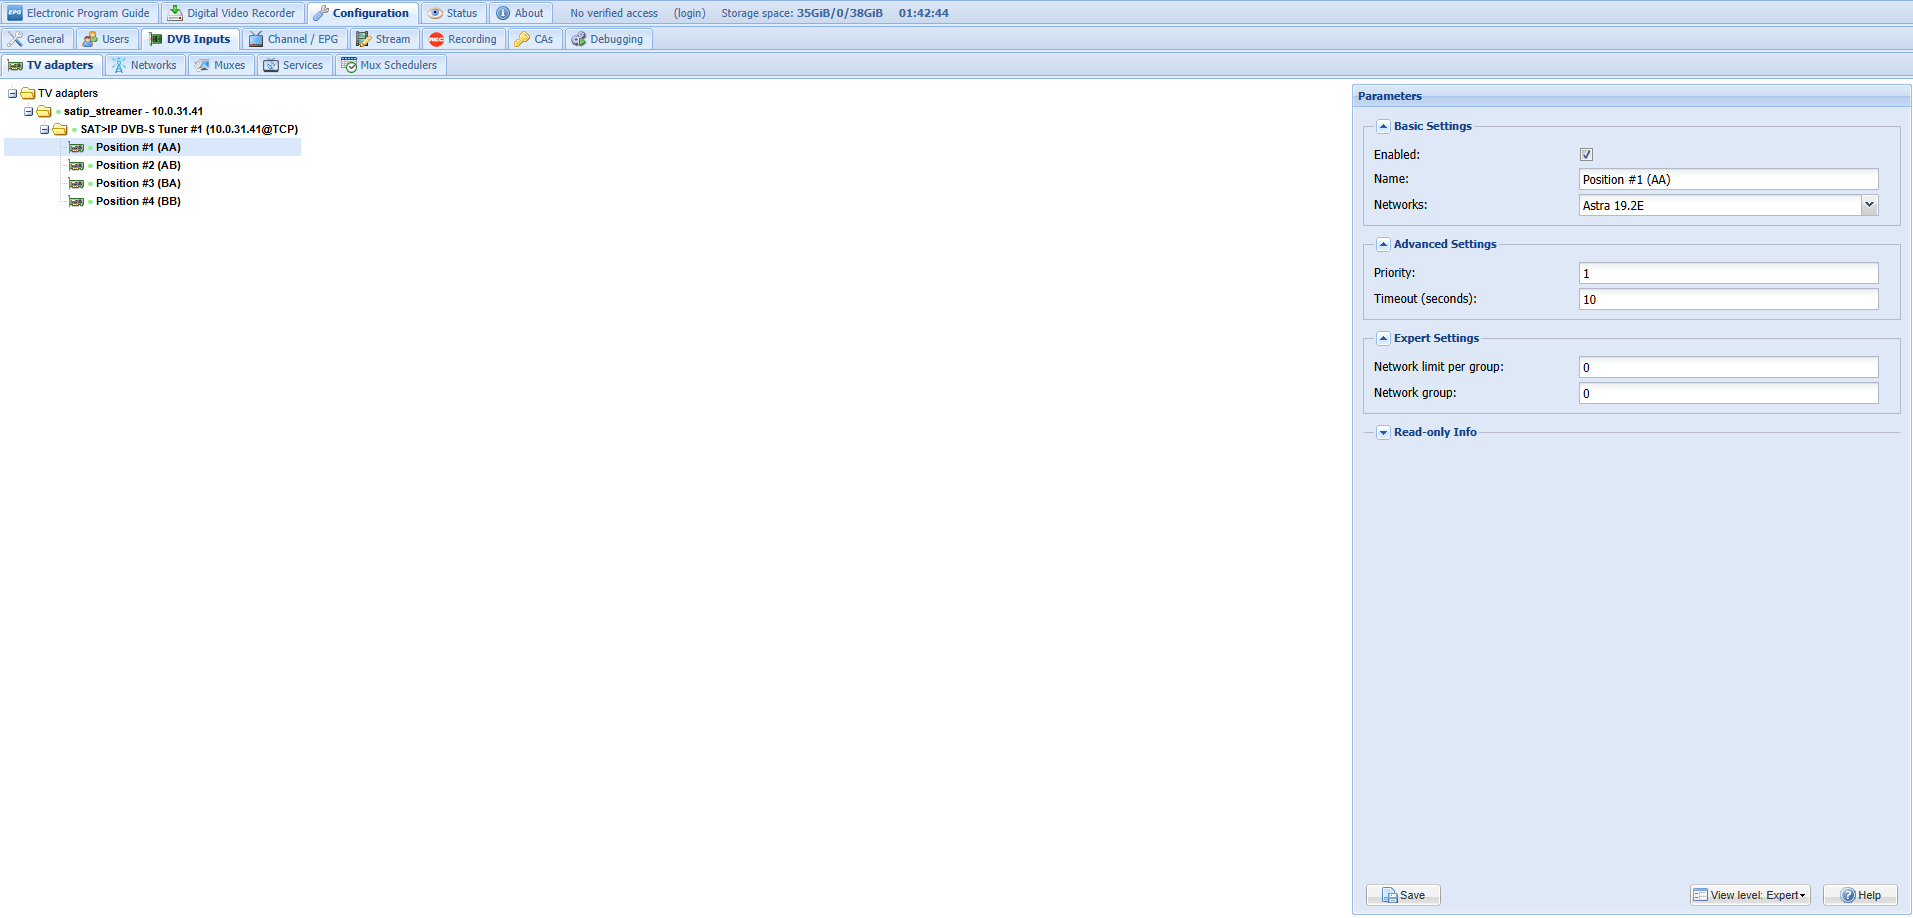
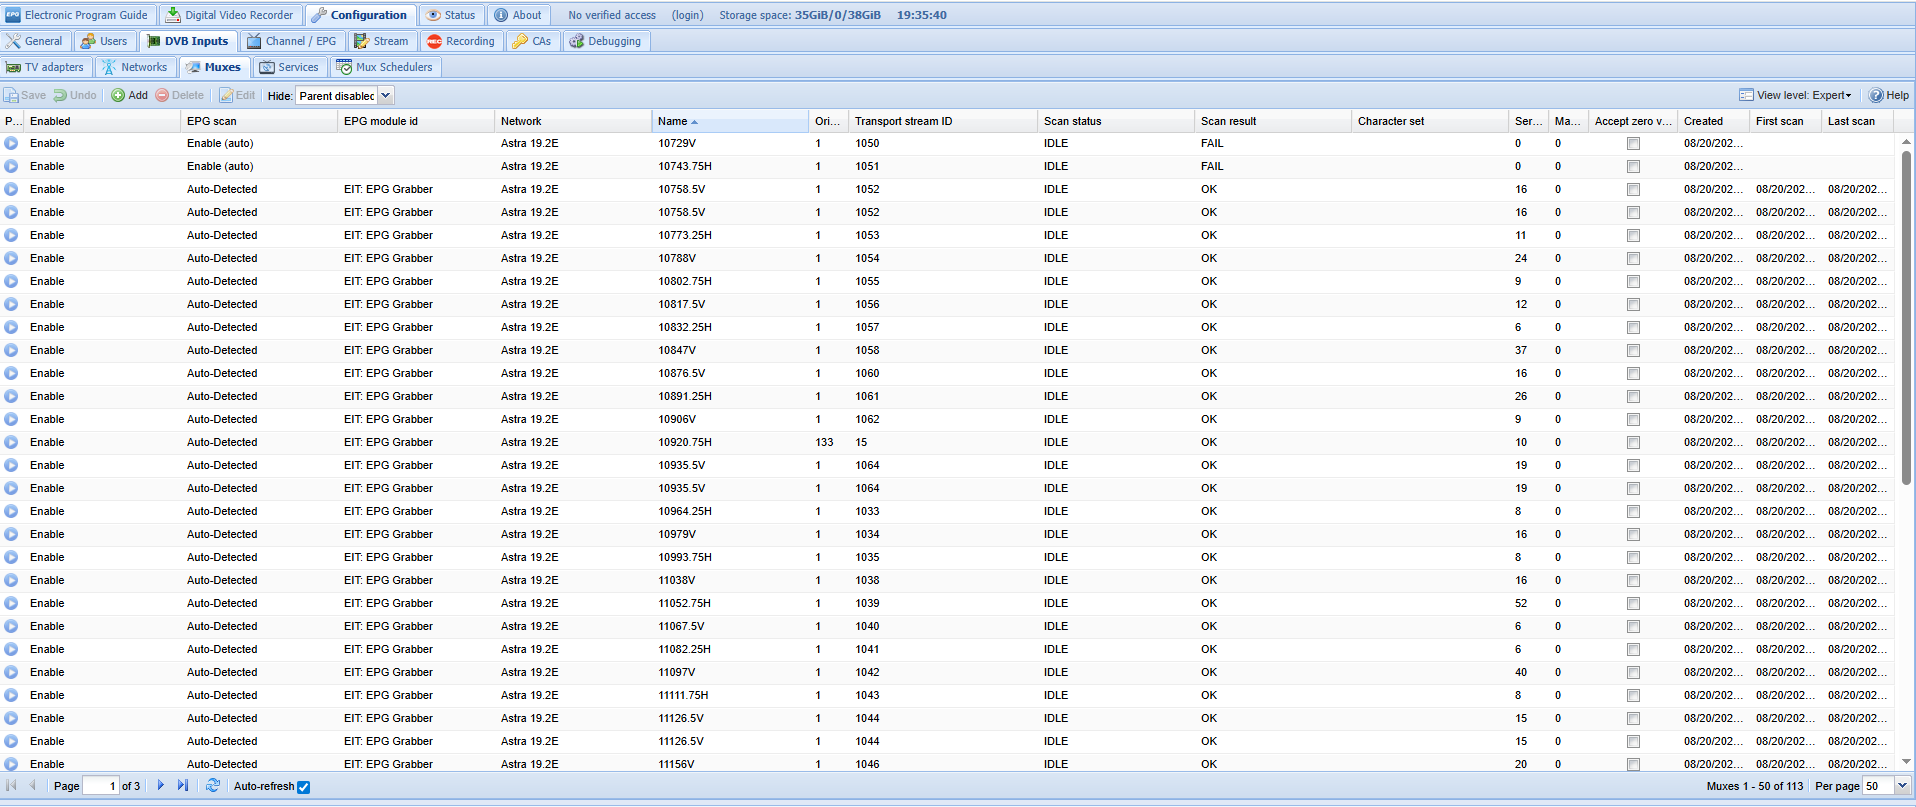
Added TVHeadend

diff --git a/content/Satellite TV/TVHeadend.md b/content/Satellite TV/TVHeadend.md
@@ -1,0 +1,86 @@
+---
+title: TVHeadend
+date: 2025-08-21
+draft: false
+---
+## ¿Qué es TVHeadend?
+
+TVHeadend (o **Tvheadend**) es un **servidor de televisión digital** de código abierto 📺.  
+Se suele usar en Linux para recibir, grabar y distribuir canales de TV a través de la red.
+### ¿Qué hace?
+
+- Sintoniza TV de distintas fuentes:
+	- Antena (DVB-T/T2, DVB-S/S2, DVB-C).
+    - IPTV (listas M3U, streams HTTP, UDP, RTSP).
+    - SAT>IP.
+- Actúa como backend: recibe la señal, la organiza, la decodifica (si tienes soporte de OSCam o un CAM físico) y la pone disponible.
+- Sirve los canales a clientes como: Kodi, VLC, apps IPTV (IPTV Extreme, TiviMate…), televisores Smart TV, etc.
+### Funciones típicas
+
+- Escaneo de canales y asignación automática de nombres/iconos.
+- Guía de Programación (EPG).
+- Grabaciones programadas (como un DVR).
+- Soporte de múltiples usuarios con permisos.
+- Integración con **OSCam** para decodificar canales encriptados.
+- Exportación de **playlist M3U** o **EPG XMLTV** para apps IPTV.
+### ¿Cómo se usa?
+
+1. Instalas Tvheadend en un servidor (Raspberry Pi, PC, NAS…).
+2. Configuras la fuente (sintonizador o lista IPTV).
+3. Mapeas canales → generas una **playlist M3U**.
+4. Accedes desde clientes por:
+    - http://IP:9981 → interfaz web.
+    - http://IP:9981/playlist → lista M3U para apps IPTV.
+
+## Configuración
+
+En primer lugar, ingresamos en la web de configuración a través de la URL: `http://<your-server-ip>:9981`. Una vez accedida, modificamos el nivel de vista por defecto (*Default wiew level*) a *Experto* dentro del menú *Configuration > General > Base*.
+
+![[TVHeadend_Configuration_1.png]]
+
+### Configuración *Tuners*
+
+#### *Tuner Delivery Mode*
+
+El siguiente paso es navegar al menú *Configuration > DVB Inputs > TV Adapters*. Para cada *tuner* habilitamos la opción *RTP/AVP/TCP transport supported* dentro de las opciones avanzadas (*Advanced Settings*).
+
+![[TVHeadend_Configuration_2.png]]
+
+Por otro lado, desde el mismo menú también debemos habilitar cada *tuner*.
+
+![[TVHeadend_Configuration_3.png]]
+#### Creación redes y muxes
+
+En primer lugar, navegamos al menú *Configuration > DVB Inputs > Networks*. Creamos una red con los siguientes parámetros:
+- Enabled: Sí
+- Network name: Astra 19.2E
+- Pre-defined muxes: > 19.2E:Astr
+- Orbital position: 19.2E : Astra 1KR/1L/1M/1N
+
+![[TVHeadend_Configuration_4.png]]
+
+Al especificar el uso *muxers* predefinidos para Astra 19.2E, dichos *muxes* se añadirán directamente a la pestaña *Configuration > DVB Inputs > Muxes*.
+
+![[TVHeadend_Configuration_5.png]]
+
+#### Vincular *tuners* a redes
+
+Una vez creada la red, el siguiente paso es asignar dicha red a cada uno de los *tuners*. Para ello, navegamos al menú *Configuration > DVB Inputs > TV Adapter*. Para cada *tuner*, modificamos los siguientes parámetros:
+- Enabled: Sí
+- Networks: Astra 19.2E
+
+![[TVHeadend_Configuration_6.png]]
+
+#### Escaneo y mapeo de servicios
+
+Al vincular los *tuners* a la red configurada, comenzará automáticamente el escaneo de servicios. Los servicios encontrados se mostrarán en la pestaña *Configuration > DVB Inputs > Services*.
+
+![[TVHeadend_Configuration_7.png]]
+
+Una vez escaneados, procedemos al mapeo de servicios en canales, seleccionando, al menos, las siguientes opciones:
+- *Map encrypted services*
+- *Check availability*
+
+![[TVHeadend_Configuration_8.png]]
+
+Los canales mapeados aparecerán junto a su EPG en el menú *Electronic Program Guide*. El progreso del escaneo se muestra en tiempo real en el menú *Status*.

diff --git a/content/Satellite TV/SATLINE.md b/content/Satellite TV/SATLINE.md
@@ -79,36 +79,4 @@ Al introducir la dirección IP de el/los *tuners* el proceso de instalación TVH
 
 ![[SATLINE_TVHeadend_Installation_7.png]]
 
-## Configuración TVHeadend
-
-En primer lugar, ingresamos en la web de configuración a través de la URL: `http://<your-server-ip>:9981`. Una vez accedida, modificamos el nivel de vista por defecto (*Default wiew level*) a *Experto* dentro del menú *Configuration > General > Base*.
-
-![[TVHeadend_Configuration_1.png]]
-
-### Configuración *Tuners*
-
-#### *Tuner Delivery Mode*
-
-El siguiente paso es navegar al menú *Configuration > DVB Inputs > TV Adapters*. Para cada *tuner* habilitamos la opción *RTP/AVP/TCP transport supported* dentro de las opciones avanzadas (*Advanced Settings*).
-
-![[TVHeadend_Configuration_2.png]]
-
-Por otro lado, desde el mismo menú también debemos habilitar cada *tuner*.
-
-![[TVHeadend_Configuration_3.png]]
-#### Creación redes y muxes
-
-En primer lugar, navegamos al menú *Configuration > DVB Inputs > Networks*. Creamos una red con los siguientes parámetros:
-- Enabled: Sí
-- Network name: Astra 19.2E
-- Pre-defined muxes: > 19.2E:Astr
-- Orbital position: 19.2E : Astra 1KR/1L/1M/1N
-
-![[TVHeadend_Configuration_4.png]]
-
-Una vez creada la red, el siguiente paso es asignar dicha red a cada uno de los *tuners*. Para ello, navegamos al menú *Configuration > DVB Inputs > TV Adapter*. Para cada *tuner*, modificamos los siguientes parámetros:
-- Enabled: Sí
-- Networks: Astra 19.2E
-
-![[TVHeadend_Configuration_5.png]]
-
+Una vez instalado, podemos configurar [[TVHeadend]].